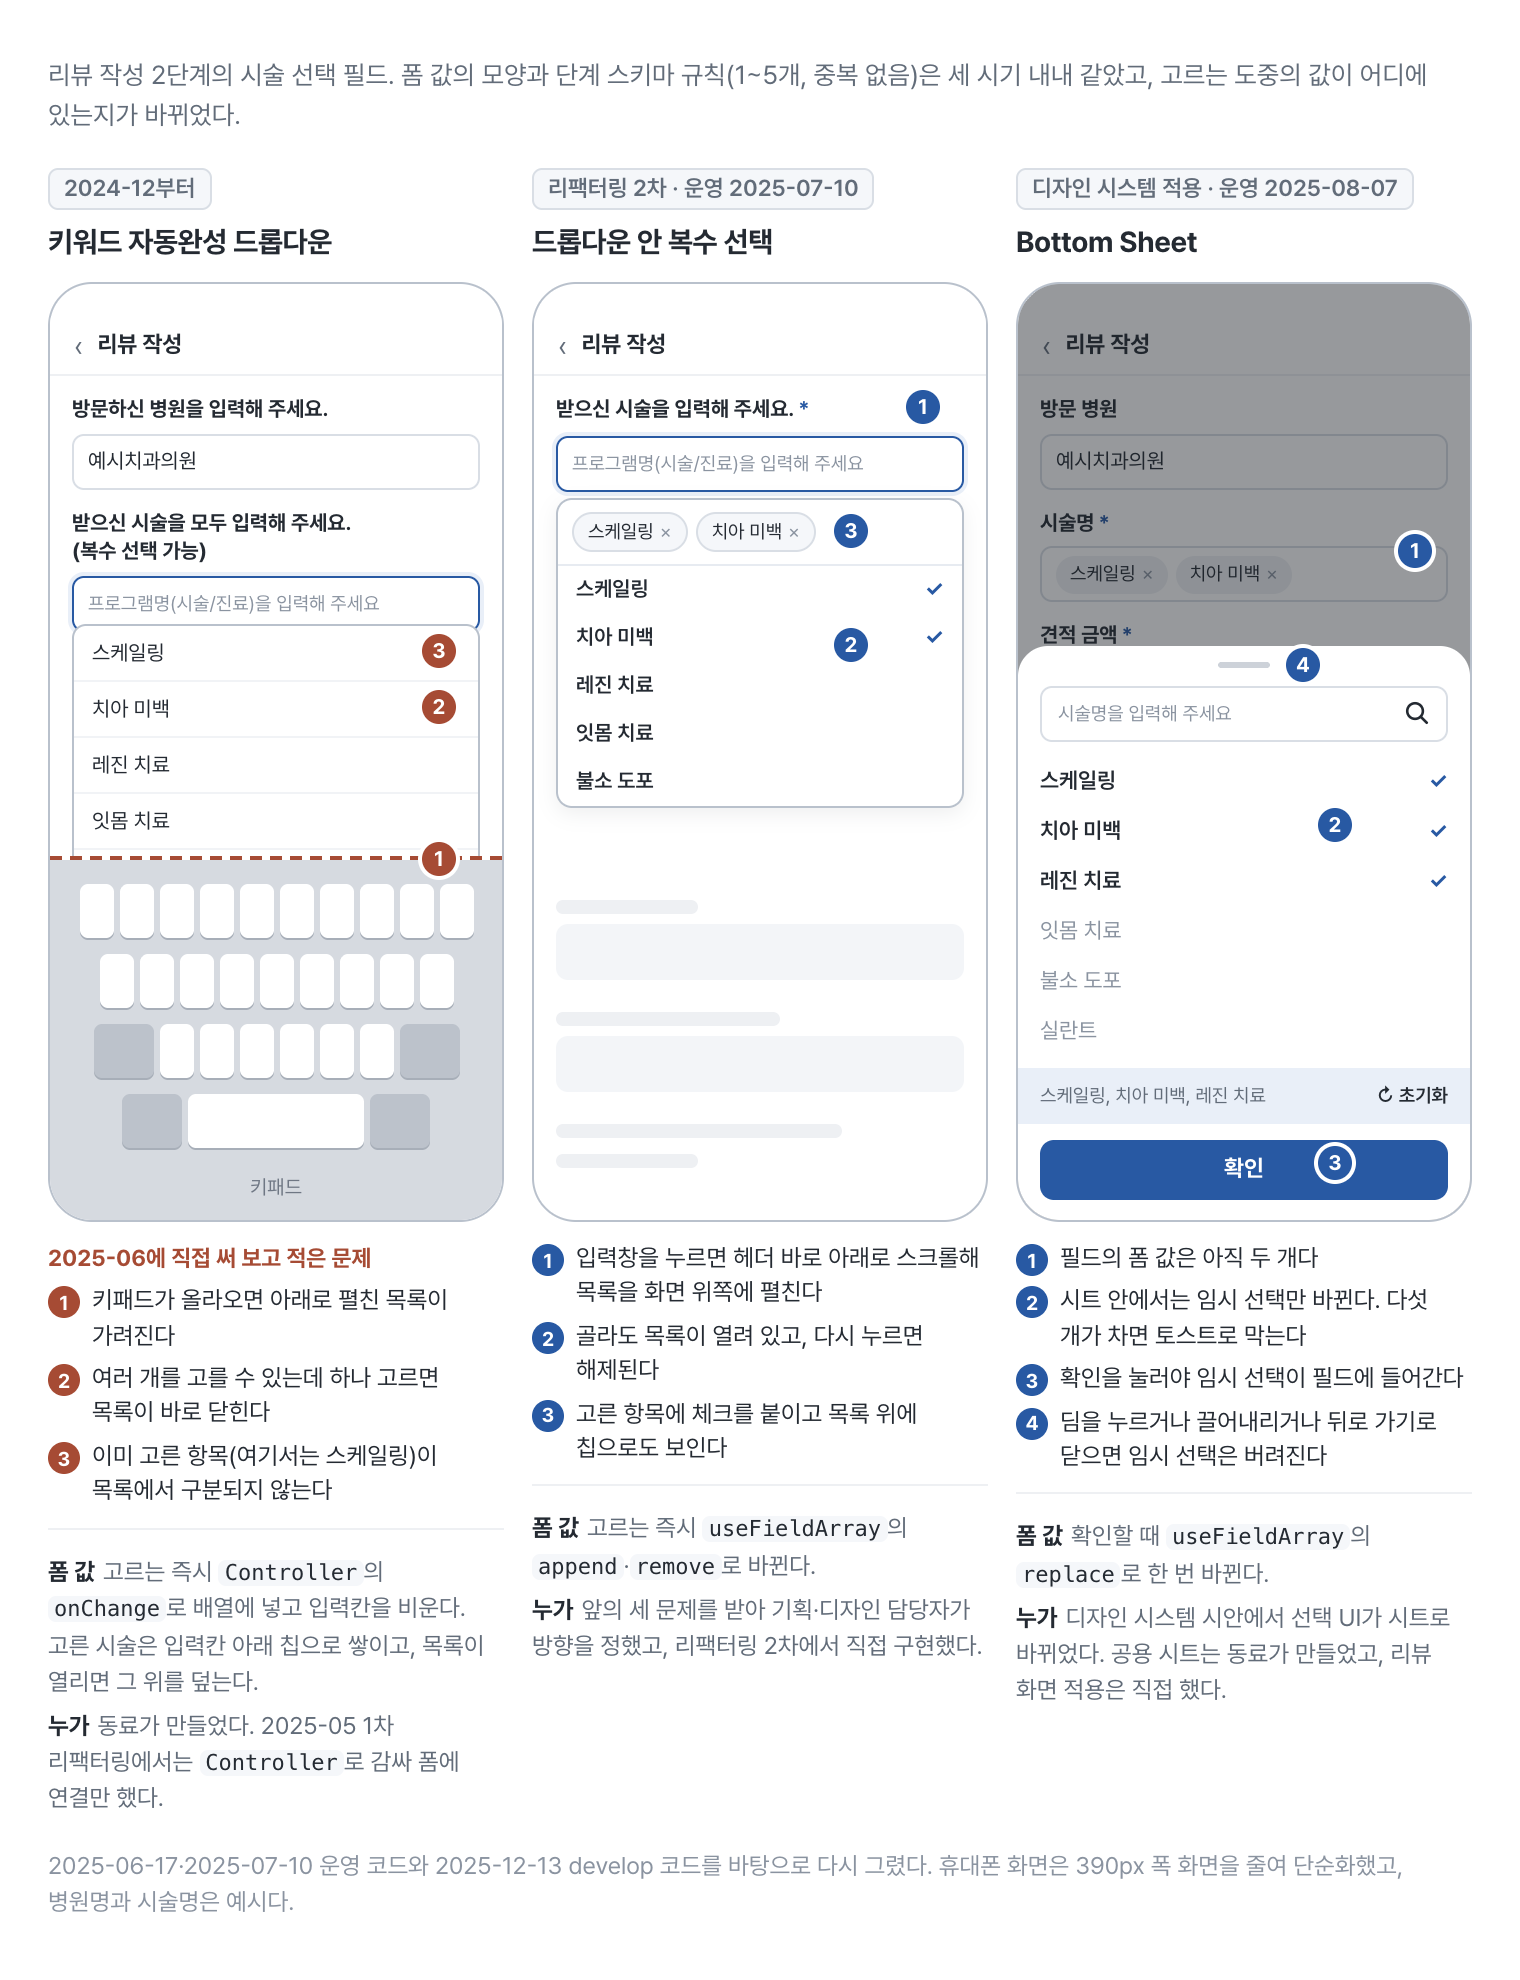
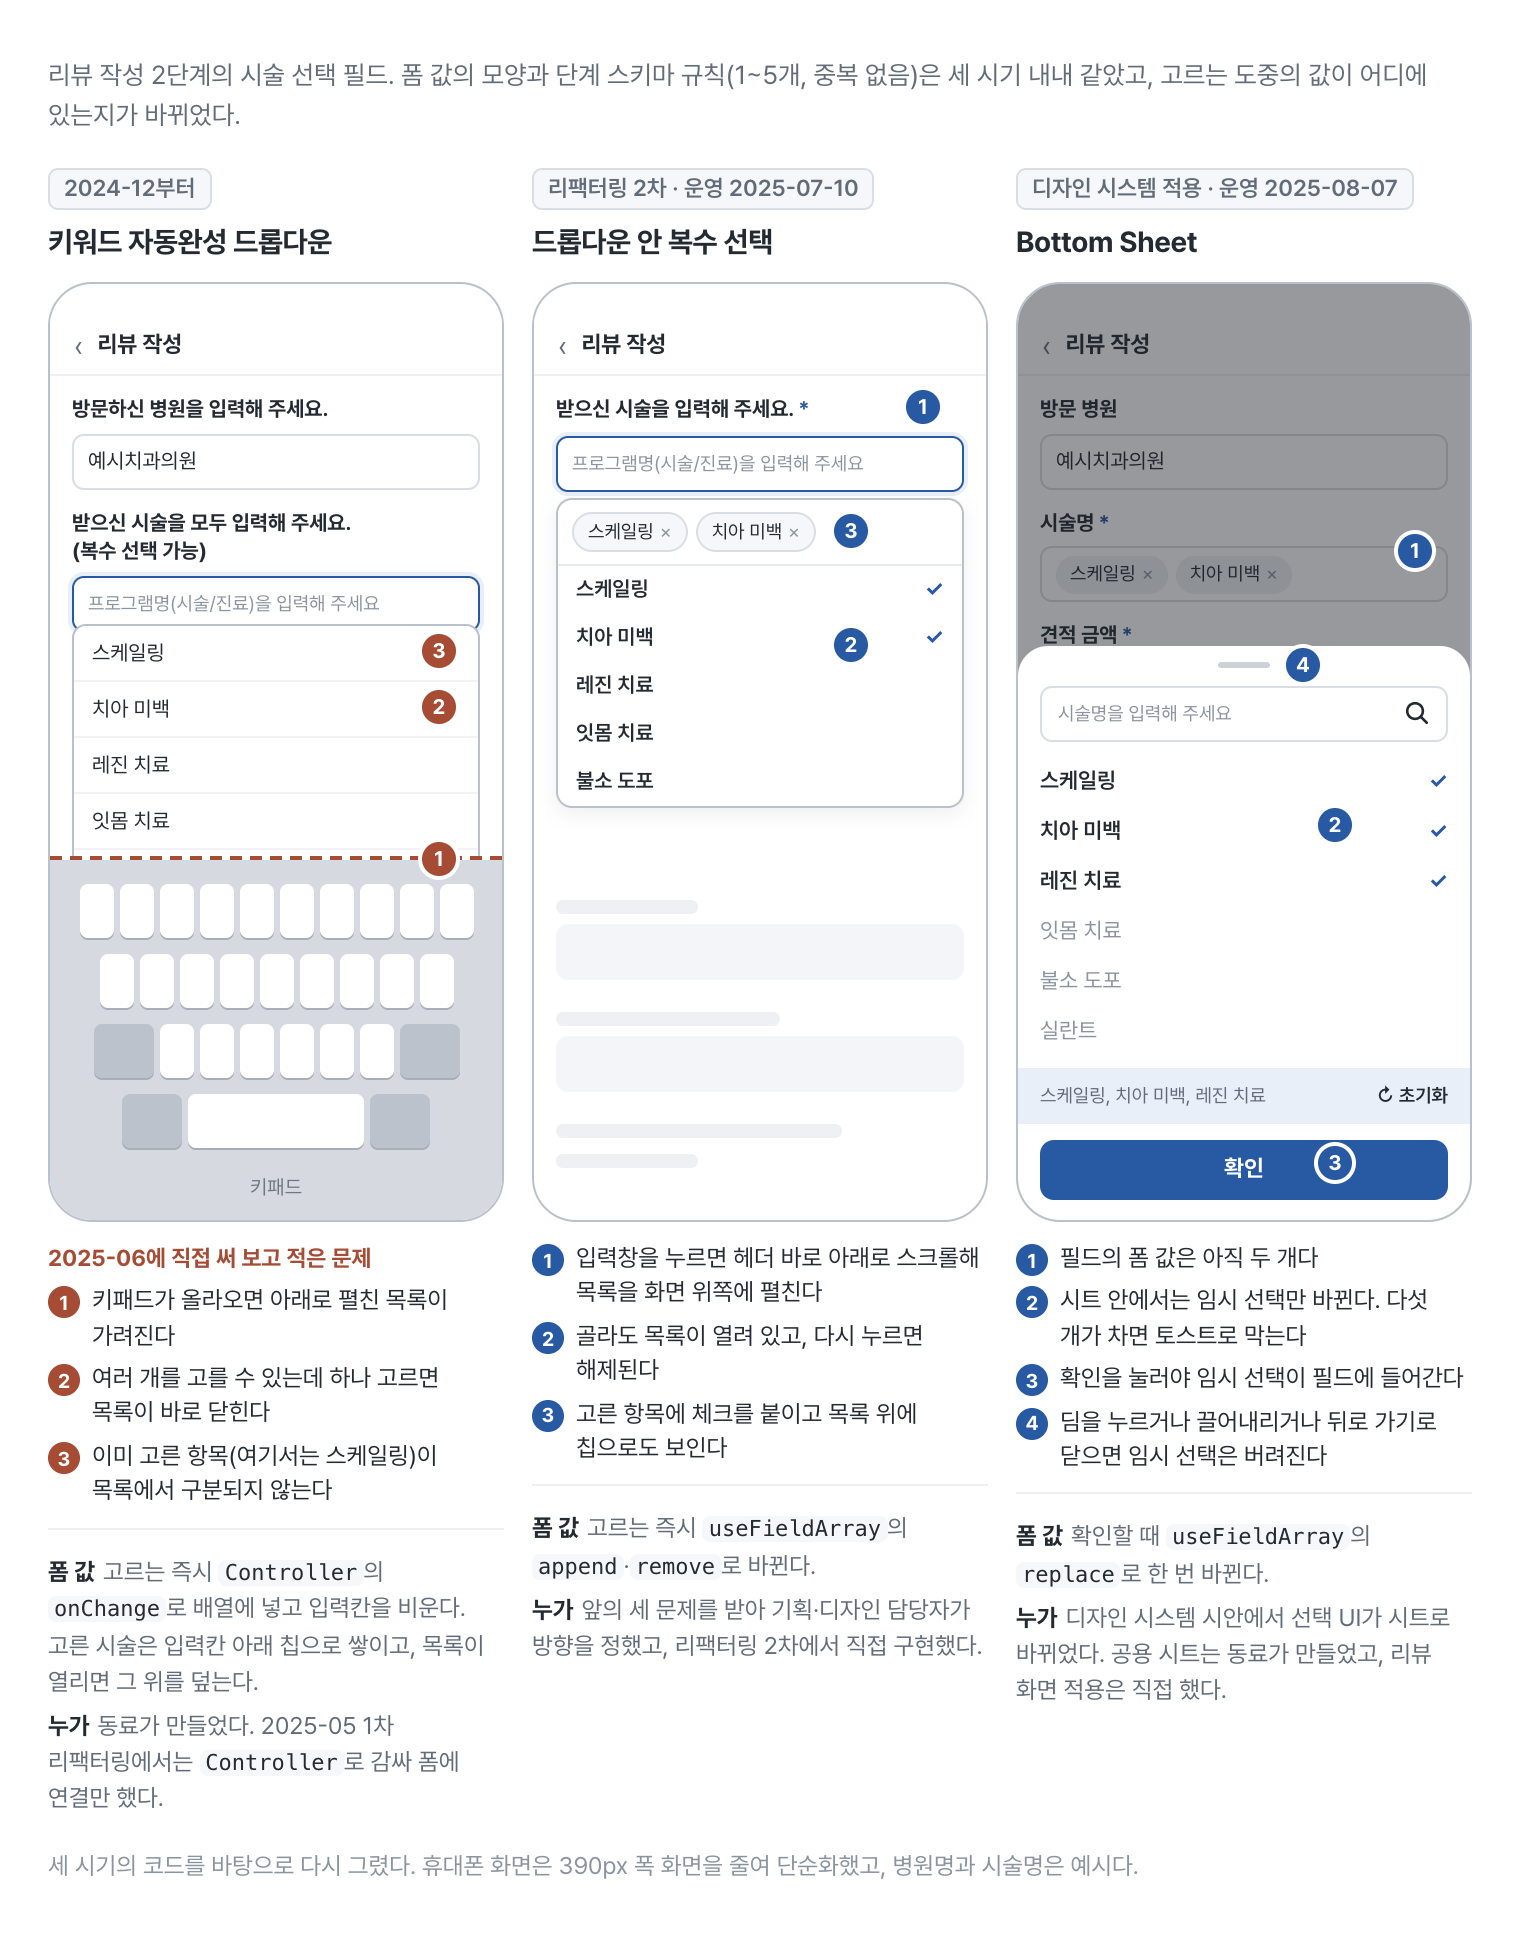
docs(blog): review-form 그림 각주에서 develop 기준 날짜를 뺀다

diff --git a/blog/assets/figures/review-form/src/02-draft-to-form.html b/blog/assets/figures/review-form/src/02-draft-to-form.html
@@ -159,8 +159,8 @@ closeBottomSheet();</pre>
 
 <div class="compare">
   <div class="cmp rule"><b>5개 제한은 두 곳에 있다</b>시트는 <code>draft</code>를 보고 6번째를 막고, 스키마는 확정된 <code>items</code>를 보고 '다음'을 끈다.<span class="hist">처음 develop에 합칠 때 시트는 <code>draft</code>가 아니라 <code>initialItems</code>의 개수를 봤다. 다음 날, 운영 반영 전에 <code>draft</code> 기준으로 고쳤다.</span></div>
-  <div class="cmp gap"><b>남은 틈</b>숫자 5가 시트와 스키마에 따로 적혀 있다. 시트의 임시 선택, 확인 버튼, 닫기 동작을 검사하는 테스트는 없다(2025-12-13 develop 기준).</div>
+  <div class="cmp gap"><b>남은 틈</b>숫자 5가 시트와 스키마에 따로 적혀 있다. 시트의 임시 선택, 확인 버튼, 닫기 동작을 검사하는 테스트는 없다.</div>
 </div>
 
-<p class="foot">2025-12-13 develop 코드를 바탕으로 다시 그렸다. <code>ItemsField</code>, <code>ItemPickerSheet</code>, <code>initialItems</code>, <code>onConfirm</code>, <code>draft</code>, <code>items</code>, <code>DetailsStepSchema</code>는 글의 가명이고 시술명은 예시다.</p>
+<p class="foot">실제 코드를 바탕으로 다시 그렸다. <code>ItemsField</code>, <code>ItemPickerSheet</code>, <code>initialItems</code>, <code>onConfirm</code>, <code>draft</code>, <code>items</code>, <code>DetailsStepSchema</code>는 글의 가명이고 시술명은 예시다.</p>
 </body></html>

diff --git a/blog/assets/figures/review-form/src/01-selection-ui.html b/blog/assets/figures/review-form/src/01-selection-ui.html
@@ -231,5 +231,5 @@
 
 </div>
 
-<p class="foot">2025-06-17·2025-07-10 운영 코드와 2025-12-13 develop 코드를 바탕으로 다시 그렸다. 휴대폰 화면은 390px 폭 화면을 줄여 단순화했고, 병원명과 시술명은 예시다.</p>
+<p class="foot">세 시기의 코드를 바탕으로 다시 그렸다. 휴대폰 화면은 390px 폭 화면을 줄여 단순화했고, 병원명과 시술명은 예시다.</p>
 </body></html>
